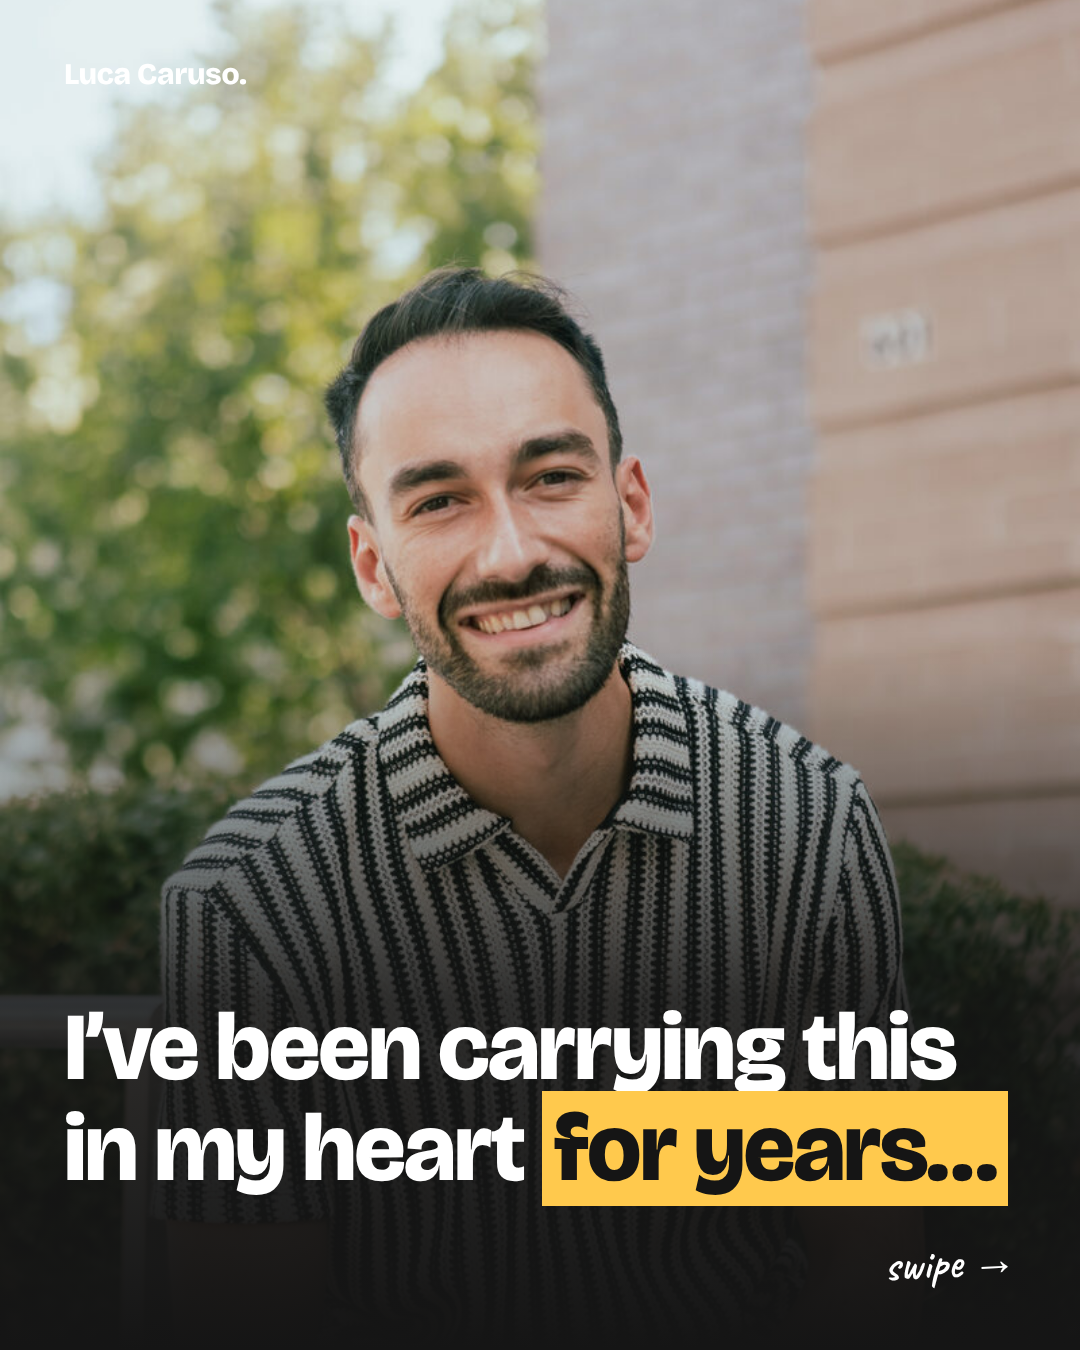
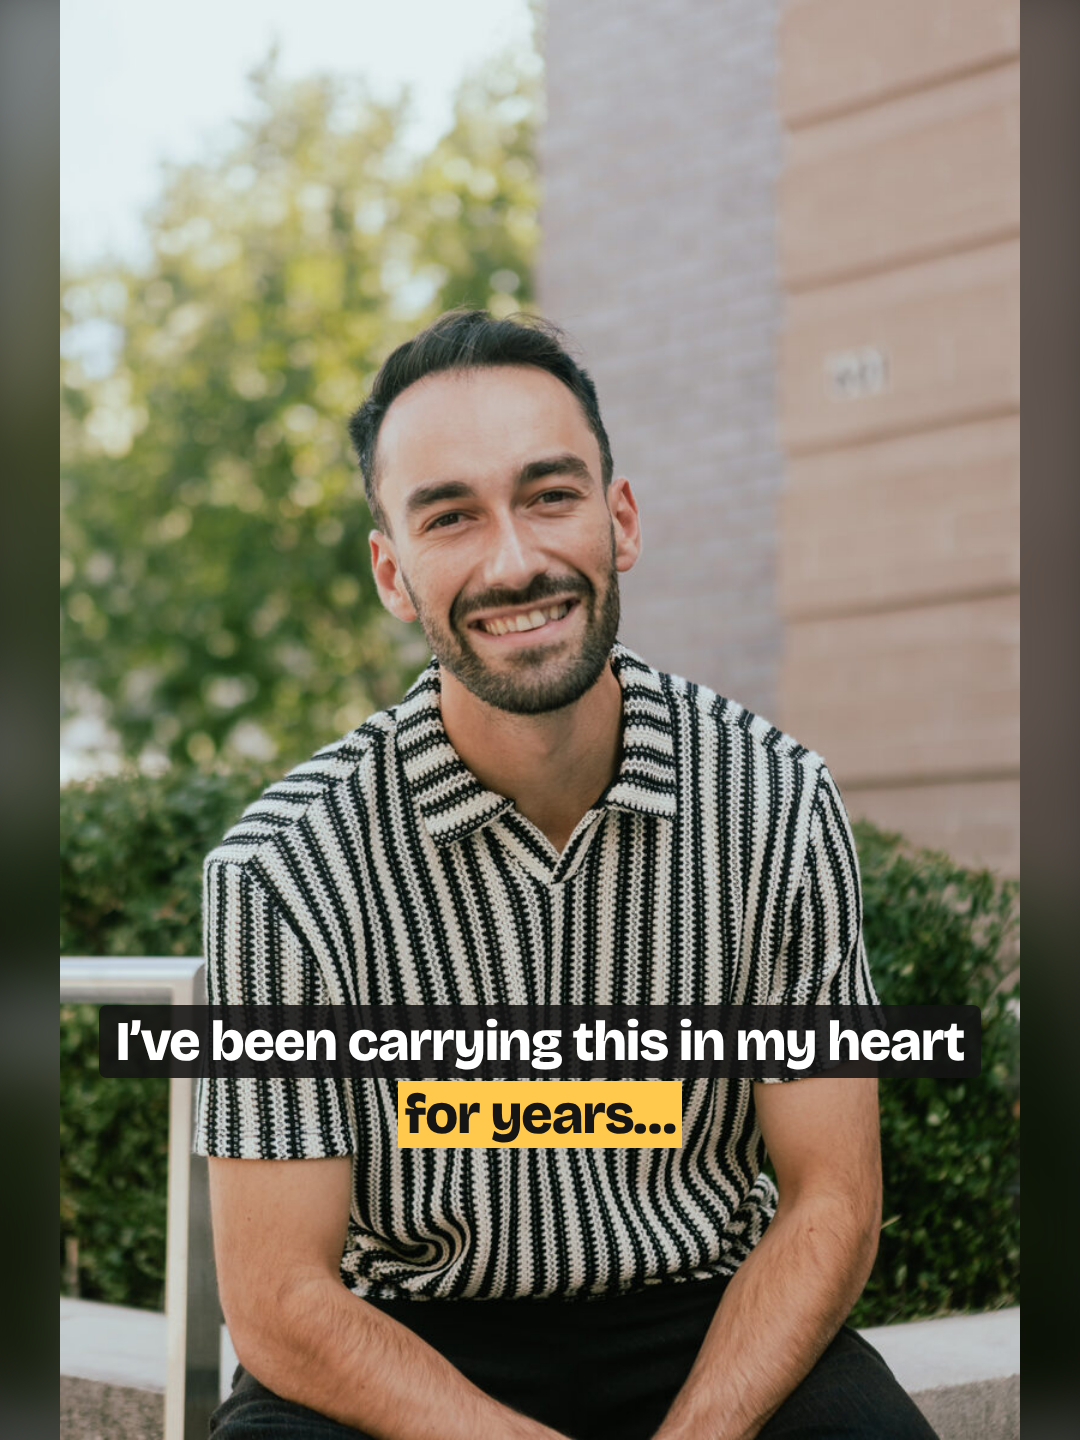
Instagram slides: show photos uncropped (3:4), smaller text
Claude-Session: https://claude.ai/code/session_01QugX99JcozbgDXdxc4CrwP

diff --git a/instagram/slides.html b/instagram/slides.html
@@ -2,54 +2,50 @@
 <html><head><meta charset="utf-8">
 <link rel="stylesheet" href="https://fonts.googleapis.com/css2?family=Bricolage+Grotesque:opsz,wght@12..96,800&family=Inter:wght@500;600&family=Caveat:wght@600&display=swap">
 <style>
-:root{--bg:#151515;--y:#FFC94D;--text:#f2f2f2}
+:root{--bg:#151515;--y:#FFC94D}
 *{box-sizing:border-box}
 body{margin:0;background:#000;display:flex;flex-direction:column;gap:40px;padding:40px;align-items:flex-start}
-.slide{position:relative;width:1080px;height:1350px;overflow:hidden;background:var(--bg);color:var(--text);font-family:Inter,sans-serif}
-.slide img{display:block;width:100%;height:100%;object-fit:cover}
-.shade{position:absolute;inset:0}
-.h{font-family:"Bricolage Grotesque",Inter,sans-serif;font-weight:800;letter-spacing:-.02em;line-height:1.06;margin:0;color:#fff}
+/* 3:4 like the original posts */
+.slide{position:relative;width:1080px;height:1440px;overflow:hidden;background:var(--bg);color:#fff;font-family:Inter,sans-serif}
+/* a frame shows the whole photo (contain); any gap is filled with a blurred copy */
+.frame{position:absolute;left:0;width:100%;overflow:hidden;background:var(--bg)}
+.frame .blur{position:absolute;inset:-40px;width:calc(100% + 80px);height:calc(100% + 80px);object-fit:cover;filter:blur(40px) brightness(.55)}
+.frame .full{position:absolute;inset:0;width:100%;height:100%;object-fit:contain}
+.h{font-family:"Bricolage Grotesque",Inter,sans-serif;font-weight:800;letter-spacing:-.02em;line-height:1.1;margin:0;color:#fff;text-align:center}
 .hl{background:var(--y);color:#151515;padding:0 .12em;-webkit-box-decoration-break:clone;box-decoration-break:clone}
-.kicker{margin:0;font:600 26px Inter,sans-serif;letter-spacing:.1em;text-transform:uppercase;color:var(--y)}
-.body{margin:0;font:500 40px/1.35 Inter,sans-serif;color:#e6e6e6}
+.box{background:#151515e0;padding:.06em .3em;line-height:1.5;-webkit-box-decoration-break:clone;box-decoration-break:clone;border-radius:8px}
+.kicker{margin:0;font:600 22px Inter,sans-serif;letter-spacing:.1em;text-transform:uppercase;color:var(--y);text-align:center}
+.body{margin:0;font:500 30px/1.5 Inter,sans-serif;color:#fff;text-align:center}
 .hand{font-family:Caveat,cursive;font-weight:600;color:#fff}
-.brand{position:absolute;font-family:"Bricolage Grotesque",Inter,sans-serif;font-weight:800;font-size:30px;letter-spacing:-.01em;color:#fff}
-.swipe{position:absolute;right:64px;bottom:60px;font-family:Caveat,cursive;font-size:44px;color:#fff;transform:rotate(-3deg)}
+.text{position:absolute;left:90px;right:90px;display:flex;flex-direction:column;gap:18px;align-items:center}
 </style></head><body>
 
-<!-- SLIDE 1: hook -->
+<!-- SLIDE 1: hook (whole photo) -->
 <div class="slide" id="s1">
-  <img src="../images/hero-luca.jpg" style="object-position:50% 30%">
-  <div class="shade" style="background:linear-gradient(180deg,#0000 0%,#0000 48%,#151515d9 74%,#151515 100%)"></div>
-  <div class="brand" style="left:64px;top:56px">Luca Caruso.</div>
-  <div style="position:absolute;left:64px;right:64px;bottom:150px">
-    <h1 class="h" style="font-size:96px">I&rsquo;ve been carrying this in my heart <span class="hl">for years&hellip;</span></h1>
+  <div class="frame" style="top:0;height:1440px"><img class="blur" src="../images/hero-luca.jpg"><img class="full" src="../images/hero-luca.jpg"></div>
+  <div class="text" style="top:1000px">
+    <h1 class="h" style="font-size:56px"><span class="box">I&rsquo;ve been carrying this in my heart</span><br><span class="hl">for years&hellip;</span></h1>
   </div>
-  <div class="swipe">swipe &rarr;</div>
 </div>
 
-<!-- SLIDE 2: 2012 mission trip -->
+<!-- SLIDE 2: 2012 mission trip (both photos whole) -->
 <div class="slide" id="s2">
-  <div style="position:absolute;left:0;top:0;width:100%;height:640px"><img src="../images/luca-2012.jpg" style="object-position:50% 72%"></div>
-  <div style="position:absolute;left:0;top:640px;width:100%;height:710px"><img src="../images/tour-giallo-2012.jpg" style="object-position:55% 60%"></div>
-  <div class="shade" style="background:linear-gradient(180deg,#0000 0%,#0000 52%,#151515cc 72%,#151515 100%)"></div>
-  <div style="position:absolute;left:0;right:0;top:636px;height:8px;background:#151515"></div>
-  <!-- handwritten label + arrow pointing to young Luca -->
-  <div class="hand" style="position:absolute;left:70px;top:520px;font-size:54px;transform:rotate(-6deg)">me, age 16</div>
-  <svg style="position:absolute;left:150px;top:380px" width="200" height="140" viewBox="0 0 200 140" fill="none"><path d="M10 130 C 30 70, 90 40, 170 30" stroke="#fff" stroke-width="6" stroke-linecap="round"/><path d="M140 12 L172 30 L146 56" stroke="#fff" stroke-width="6" stroke-linecap="round" stroke-linejoin="round"/></svg>
-  <div style="position:absolute;left:64px;right:64px;bottom:90px;display:flex;flex-direction:column;gap:26px">
-    <h2 class="h" style="font-size:78px">In 2012 I joined my <span class="hl">first mission trip.</span></h2>
-    <p class="body">And got a burden to see people experience Jesus.</p>
+  <div class="frame" style="top:0;height:736px"><img class="blur" src="../images/luca-2012.jpg"><img class="full" src="../images/luca-2012.jpg"></div>
+  <div class="frame" style="top:740px;height:700px"><img class="blur" src="../images/tour-giallo-2012.jpg"><img class="full" src="../images/tour-giallo-2012.jpg"></div>
+  <div class="hand" style="position:absolute;left:96px;top:600px;font-size:44px;transform:rotate(-6deg)">me, age 16</div>
+  <svg style="position:absolute;left:170px;top:480px" width="150" height="110" viewBox="0 0 150 110" fill="none"><path d="M8 100 C 24 54, 66 30, 128 22" stroke="#fff" stroke-width="5" stroke-linecap="round"/><path d="M104 6 L130 22 L108 44" stroke="#fff" stroke-width="5" stroke-linecap="round" stroke-linejoin="round"/></svg>
+  <div class="text" style="top:1010px">
+    <h2 class="h" style="font-size:48px"><span class="box">In 2012 I joined my</span> <span class="hl">first mission trip.</span></h2>
+    <p class="body"><span class="box">And got a burden to see people experience Jesus.</span></p>
   </div>
 </div>
 
-<!-- SLIDE 3: Jesus Revolution -->
+<!-- SLIDE 3: Jesus Revolution (whole photo) -->
 <div class="slide" id="s3">
-  <img src="../images/jesus-revolution.jpg" style="object-position:50% 60%">
-  <div class="shade" style="background:linear-gradient(180deg,#151515 0%,#151515e6 22%,#15151566 42%,#0000 58%)"></div>
-  <div style="position:absolute;left:64px;right:64px;top:80px;display:flex;flex-direction:column;gap:26px">
+  <div class="frame" style="top:0;height:1440px"><img class="blur" src="../images/jesus-revolution.jpg"><img class="full" src="../images/jesus-revolution.jpg" style="object-position:50% 100%"></div>
+  <div class="text" style="top:110px">
     <p class="kicker">2018&ndash;2025</p>
-    <h2 class="h" style="font-size:78px">I joined Jesus Revolution as the <span class="hl">media leader.</span></h2>
+    <h2 class="h" style="font-size:48px">I joined Jesus Revolution as the<br><span class="hl">media leader.</span></h2>
     <p class="body">Finding new ways to reach this generation with the Gospel through media.</p>
   </div>
 </div>
